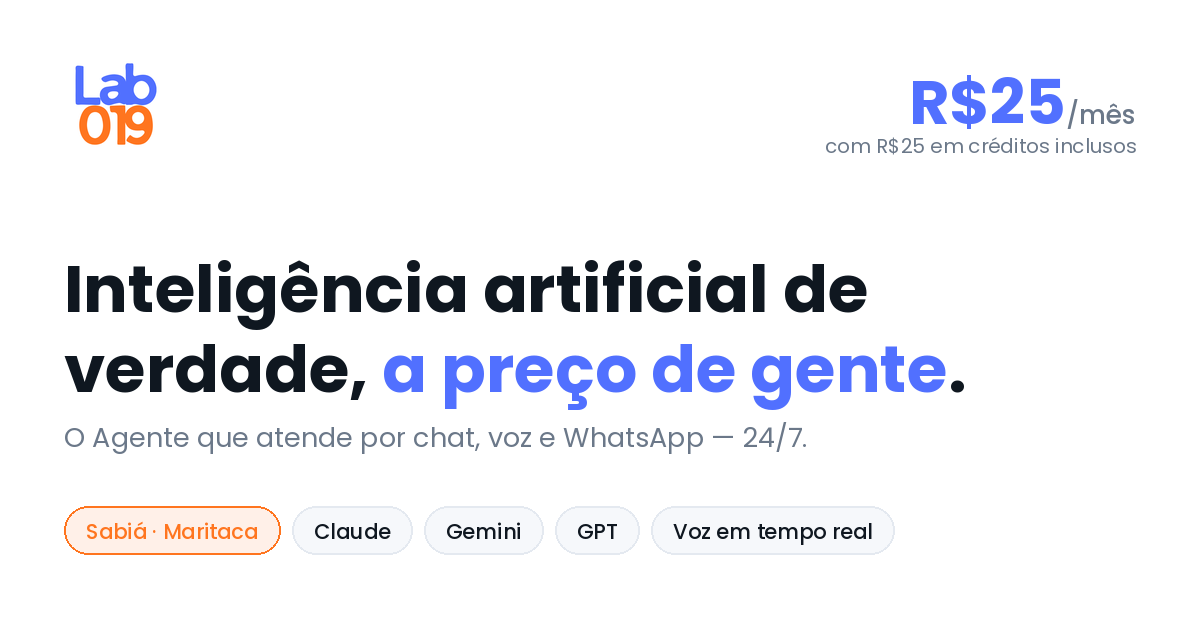
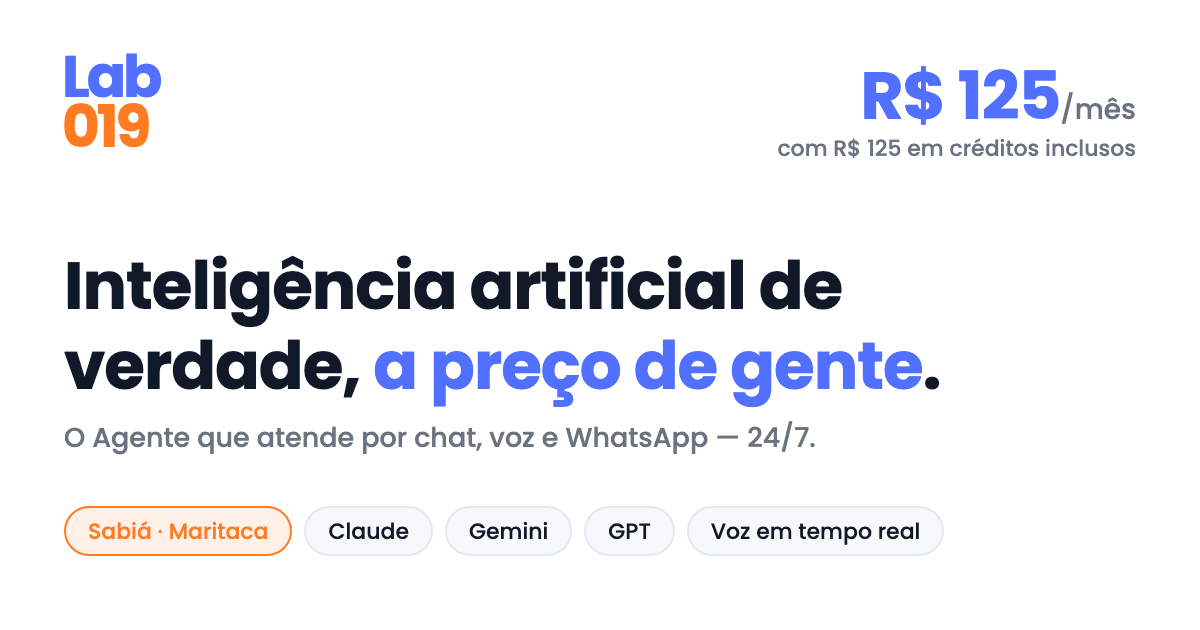
fix(site): og-image com o preço do billing, fonte no repo e ?v=3 (LIC-3526)
A prévia de link mostrava R$25/mês (PNG estático sem fonte). Agora a imagem é
redesenhada no deploy a partir de og-image/og-image.template.html com o preço e
o crédito do billing (mesmos tokens das páginas); billing ou Chrome fora do ar
falha o build. As páginas passam de ?v=2 para ?v=3 para renovar o cache do
WhatsApp e do Facebook.

diff --git a/og-image/og-image.template.html b/og-image/og-image.template.html
@@ -1,0 +1,47 @@
+<!doctype html>
+<html lang="pt-BR">
+<head>
+<meta charset="utf-8" />
+<title>og-image Lab019</title>
+<!-- Fonte da imagem de prévia de link (1200x630). Os valores vêm do billing em tempo de
+     build (os mesmos tokens de preço e franquia das páginas do site); nada de
+     preço fica escrito aqui. Render: python3 scripts/render_og_image.py site -->
+<link rel="preconnect" href="https://fonts.googleapis.com" />
+<link rel="preconnect" href="https://fonts.gstatic.com" crossorigin />
+<link href="https://fonts.googleapis.com/css2?family=Poppins:wght@500;600;700&display=swap" rel="stylesheet" />
+<style>
+  * { box-sizing: border-box; margin: 0; padding: 0; }
+  html, body { width: 1200px; height: 630px; overflow: hidden; background: #fff; }
+  body { position: relative; font-family: "Poppins", "Helvetica Neue", Arial, sans-serif; color: #111827; }
+  .mark { position: absolute; left: 62px; top: 52px; font-weight: 700; font-size: 58px; line-height: 50px; letter-spacing: -3px; }
+  .mark .lab { display: block; color: #5170ff; }
+  .mark .num { display: block; color: #ff7a21; }
+  .price { position: absolute; right: 64px; top: 58px; text-align: right; }
+  .price .amount { font-weight: 700; font-size: 66px; line-height: 76px; color: #5170ff; letter-spacing: -1px; }
+  .price .unit { font-weight: 500; font-size: 28px; color: #6b7280; }
+  .price .credits { font-weight: 500; font-size: 22px; line-height: 30px; color: #6b7280; }
+  h1 { position: absolute; left: 64px; top: 246px; font-weight: 700; font-size: 66px; line-height: 80px; letter-spacing: -1px; }
+  h1 .accent { color: #5170ff; }
+  .tagline { position: absolute; left: 64px; top: 418px; font-weight: 500; font-size: 27px; color: #6b7280; }
+  .pills { position: absolute; left: 64px; top: 506px; display: flex; gap: 12px; }
+  .pill { height: 50px; padding: 0 22px; border-radius: 25px; display: flex; align-items: center; font-weight: 500; font-size: 22px; color: #111827; background: #f6f8fb; border: 2px solid #e4e9f0; }
+  .pill.on { background: #fff0e8; border-color: #ff7a21; color: #ff7a21; }
+</style>
+</head>
+<body>
+  <div class="mark"><span class="lab">Lab</span><span class="num">019</span></div>
+  <div class="price">
+    <div><span class="amount">{{plan_price|Assinatura}}</span><span class="unit">/mês</span></div>
+    <div class="credits">com {{plan_franchise|créditos}} em créditos inclusos</div>
+  </div>
+  <h1>Inteligência artificial de<br />verdade, <span class="accent">a preço de gente</span>.</h1>
+  <div class="tagline">O Agente que atende por chat, voz e WhatsApp — 24/7.</div>
+  <div class="pills">
+    <span class="pill on">Sabiá · Maritaca</span>
+    <span class="pill">Claude</span>
+    <span class="pill">Gemini</span>
+    <span class="pill">GPT</span>
+    <span class="pill">Voz em tempo real</span>
+  </div>
+</body>
+</html>

diff --git a/site/preco/index.html b/site/preco/index.html
@@ -11,13 +11,13 @@
 <meta property="og:title" content="Preço e condições comerciais — Lab019" />
 <meta property="og:description" content="Teste por 14 dias sem cartão. No plano padrão, a mensalidade inteira vira créditos de uso. Enterprise pós-pago, com contas-filhas e uma fatura." />
 <meta property="og:url" content="https://lab019.ai/preco/" />
-<meta property="og:image" content="https://lab019.ai/assets/og-image.png?v=2" />
+<meta property="og:image" content="https://lab019.ai/assets/og-image.png?v=3" />
 <meta property="og:image:width" content="1200" />
 <meta property="og:image:height" content="630" />
 <meta name="twitter:card" content="summary_large_image" />
 <meta name="twitter:title" content="Preço e condições comerciais — Lab019" />
 <meta name="twitter:description" content="Padrão com a mensalidade inteira em créditos e Enterprise com contas-filhas e uma fatura." />
-<meta name="twitter:image" content="https://lab019.ai/assets/og-image.png?v=2" />
+<meta name="twitter:image" content="https://lab019.ai/assets/og-image.png?v=3" />
 <link rel="preconnect" href="https://fonts.googleapis.com" />
 <link rel="preconnect" href="https://fonts.gstatic.com" crossorigin />
 <link href="https://fonts.googleapis.com/css2?family=Inter:wght@400;500;600;700;800&display=swap" rel="stylesheet" />
@@ -33,7 +33,7 @@
   "@type": "Product",
   "name": "Lab019",
   "url": "https://lab019.ai/preco/",
-  "image": "https://lab019.ai/assets/og-image.png?v=2",
+  "image": "https://lab019.ai/assets/og-image.png?v=3",
   "brand": {
     "@type": "Organization",
     "name": "Lab019"

diff --git a/site/integracoes/index.html b/site/integracoes/index.html
@@ -11,13 +11,13 @@
 <meta property="og:title" content="Integrações: seu Agente age nos seus sistemas — Lab019" />
 <meta property="og:description" content="Conecte agentes da Lab019 a ferramentas e sistemas via MCP e APIs, com escopo de acesso, credenciais protegidas e aprovação para ações sensíveis." />
 <meta property="og:url" content="https://lab019.ai/integracoes/" />
-<meta property="og:image" content="https://lab019.ai/assets/og-image.png?v=2" />
+<meta property="og:image" content="https://lab019.ai/assets/og-image.png?v=3" />
 <meta property="og:image:width" content="1200" />
 <meta property="og:image:height" content="630" />
 <meta name="twitter:card" content="summary_large_image" />
 <meta name="twitter:title" content="Integrações: seu Agente age nos seus sistemas — Lab019" />
 <meta name="twitter:description" content="Conecte agentes da Lab019 a ferramentas e sistemas via MCP e APIs, com escopo de acesso, credenciais protegidas e aprovação para ações sensíveis." />
-<meta name="twitter:image" content="https://lab019.ai/assets/og-image.png?v=2" />
+<meta name="twitter:image" content="https://lab019.ai/assets/og-image.png?v=3" />
 <link rel="preconnect" href="https://fonts.googleapis.com" />
 <link rel="preconnect" href="https://fonts.gstatic.com" crossorigin />
 <link href="https://fonts.googleapis.com/css2?family=Inter:wght@400;500;600;700;800&display=swap" rel="stylesheet" />

diff --git a/site/handoff/index.html b/site/handoff/index.html
@@ -11,13 +11,13 @@
 <meta property="og:title" content="Atendimento humano: o Agente passa para você — Lab019" />
 <meta property="og:description" content="A IA atende o volume e passa os casos delicados para uma pessoa, em voz e texto, sem perder o histórico. Você assume na hora e devolve para o Agente." />
 <meta property="og:url" content="https://lab019.ai/handoff/" />
-<meta property="og:image" content="https://lab019.ai/assets/og-image.png?v=2" />
+<meta property="og:image" content="https://lab019.ai/assets/og-image.png?v=3" />
 <meta property="og:image:width" content="1200" />
 <meta property="og:image:height" content="630" />
 <meta name="twitter:card" content="summary_large_image" />
 <meta name="twitter:title" content="Atendimento humano: o Agente passa para você — Lab019" />
 <meta name="twitter:description" content="A IA atende o volume e passa os casos delicados para uma pessoa, em voz e texto, sem perder o histórico. Você assume na hora e devolve para o Agente." />
-<meta name="twitter:image" content="https://lab019.ai/assets/og-image.png?v=2" />
+<meta name="twitter:image" content="https://lab019.ai/assets/og-image.png?v=3" />
 <link rel="preconnect" href="https://fonts.googleapis.com" />
 <link rel="preconnect" href="https://fonts.gstatic.com" crossorigin />
 <link href="https://fonts.googleapis.com/css2?family=Inter:wght@400;500;600;700;800&display=swap" rel="stylesheet" />

diff --git a/site/voz/index.html b/site/voz/index.html
@@ -11,13 +11,13 @@
 <meta property="og:title" content="Seu Agente de IA atende por voz e por telefone — Lab019" />
 <meta property="og:description" content="O Agente atende por voz em português do Brasil, no seu site ou por um número de telefone de verdade, 24/7. Transcreve tudo e passa para um humano." />
 <meta property="og:url" content="https://lab019.ai/voz/" />
-<meta property="og:image" content="https://lab019.ai/assets/og-image.png?v=2" />
+<meta property="og:image" content="https://lab019.ai/assets/og-image.png?v=3" />
 <meta property="og:image:width" content="1200" />
 <meta property="og:image:height" content="630" />
 <meta name="twitter:card" content="summary_large_image" />
 <meta name="twitter:title" content="Seu Agente de IA atende por voz e por telefone — Lab019" />
 <meta name="twitter:description" content="O Agente atende por voz em português do Brasil, no seu site ou por um número de telefone de verdade, 24/7. Transcreve tudo e passa para um humano." />
-<meta name="twitter:image" content="https://lab019.ai/assets/og-image.png?v=2" />
+<meta name="twitter:image" content="https://lab019.ai/assets/og-image.png?v=3" />
 <link rel="preconnect" href="https://fonts.googleapis.com" />
 <link rel="preconnect" href="https://fonts.gstatic.com" crossorigin />
 <link href="https://fonts.googleapis.com/css2?family=Inter:wght@400;500;600;700;800&display=swap" rel="stylesheet" />

diff --git a/site/especialistas/index.html b/site/especialistas/index.html
@@ -11,13 +11,13 @@
 <meta property="og:title" content="Equipe de agentes especialistas para o seu negócio — Lab019" />
 <meta property="og:description" content="Um agente principal que delega para sub-agentes especialistas e conhece o seu negócio via skills. Monte tudo conversando, sem programar." />
 <meta property="og:url" content="https://lab019.ai/especialistas/" />
-<meta property="og:image" content="https://lab019.ai/assets/og-image.png?v=2" />
+<meta property="og:image" content="https://lab019.ai/assets/og-image.png?v=3" />
 <meta property="og:image:width" content="1200" />
 <meta property="og:image:height" content="630" />
 <meta name="twitter:card" content="summary_large_image" />
 <meta name="twitter:title" content="Equipe de agentes especialistas para o seu negócio — Lab019" />
 <meta name="twitter:description" content="Um agente principal que delega para sub-agentes especialistas e conhece o seu negócio via skills. Monte tudo conversando, sem programar." />
-<meta name="twitter:image" content="https://lab019.ai/assets/og-image.png?v=2" />
+<meta name="twitter:image" content="https://lab019.ai/assets/og-image.png?v=3" />
 <link rel="preconnect" href="https://fonts.googleapis.com" />
 <link rel="preconnect" href="https://fonts.gstatic.com" crossorigin />
 <link href="https://fonts.googleapis.com/css2?family=Inter:wght@400;500;600;700;800&display=swap" rel="stylesheet" />

diff --git a/site/automacoes/index.html b/site/automacoes/index.html
@@ -11,13 +11,13 @@
 <meta property="og:title" content="Automações para a operação — Lab019" />
 <meta property="og:description" content="Automatize cobranças, relatórios e tarefas recorrentes com agentes de IA. WhatsApp como canal principal, telefone como opção e acompanhamento por contato." />
 <meta property="og:url" content="https://lab019.ai/automacoes/" />
-<meta property="og:image" content="https://lab019.ai/assets/og-image.png?v=2" />
+<meta property="og:image" content="https://lab019.ai/assets/og-image.png?v=3" />
 <meta property="og:image:width" content="1200" />
 <meta property="og:image:height" content="630" />
 <meta name="twitter:card" content="summary_large_image" />
 <meta name="twitter:title" content="Automações para a operação — Lab019" />
 <meta name="twitter:description" content="Automatize cobranças, relatórios e tarefas recorrentes com agentes de IA. WhatsApp como canal principal, telefone como opção e acompanhamento por contato." />
-<meta name="twitter:image" content="https://lab019.ai/assets/og-image.png?v=2" />
+<meta name="twitter:image" content="https://lab019.ai/assets/og-image.png?v=3" />
 <link rel="preconnect" href="https://fonts.googleapis.com" />
 <link rel="preconnect" href="https://fonts.gstatic.com" crossorigin />
 <link href="https://fonts.googleapis.com/css2?family=Inter:wght@400;500;600;700;800&display=swap" rel="stylesheet" />

diff --git a/site/atendimento-whatsapp/index.html b/site/atendimento-whatsapp/index.html
@@ -12,13 +12,13 @@
 <meta property="og:title" content="Atendimento e pré-venda no WhatsApp com IA — Lab019" />
 <meta property="og:description" content="O Agente responde dúvidas, registra pedidos e faz pré-venda no WhatsApp a qualquer hora e chama uma pessoa quando o caso pede. Pela API oficial da Meta." />
 <meta property="og:url" content="https://lab019.ai/atendimento-whatsapp/" />
-<meta property="og:image" content="https://lab019.ai/assets/og-image.png?v=2" />
+<meta property="og:image" content="https://lab019.ai/assets/og-image.png?v=3" />
 <meta property="og:image:width" content="1200" />
 <meta property="og:image:height" content="630" />
 <meta name="twitter:card" content="summary_large_image" />
 <meta name="twitter:title" content="Atendimento e pré-venda no WhatsApp com IA — Lab019" />
 <meta name="twitter:description" content="O Agente responde dúvidas, registra pedidos e faz pré-venda no WhatsApp a qualquer hora e chama uma pessoa quando o caso pede. Pela API oficial da Meta." />
-<meta name="twitter:image" content="https://lab019.ai/assets/og-image.png?v=2" />
+<meta name="twitter:image" content="https://lab019.ai/assets/og-image.png?v=3" />
 
 <link rel="preconnect" href="https://fonts.googleapis.com" />
 <link rel="preconnect" href="https://fonts.gstatic.com" crossorigin />

diff --git a/site/reativacao-de-clientes/index.html b/site/reativacao-de-clientes/index.html
@@ -12,13 +12,13 @@
 <meta property="og:title" content="Reativação de clientes pelo WhatsApp com IA — Lab019" />
 <meta property="og:description" content="Volte a falar com quem sumiu: o Agente envia mensagens pelo WhatsApp, acompanha só quem não respondeu e chama uma pessoa quando há interesse." />
 <meta property="og:url" content="https://lab019.ai/reativacao-de-clientes/" />
-<meta property="og:image" content="https://lab019.ai/assets/og-image.png?v=2" />
+<meta property="og:image" content="https://lab019.ai/assets/og-image.png?v=3" />
 <meta property="og:image:width" content="1200" />
 <meta property="og:image:height" content="630" />
 <meta name="twitter:card" content="summary_large_image" />
 <meta name="twitter:title" content="Reativação de clientes pelo WhatsApp com IA — Lab019" />
 <meta name="twitter:description" content="Volte a falar com quem sumiu: o Agente envia mensagens pelo WhatsApp, acompanha só quem não respondeu e chama uma pessoa quando há interesse." />
-<meta name="twitter:image" content="https://lab019.ai/assets/og-image.png?v=2" />
+<meta name="twitter:image" content="https://lab019.ai/assets/og-image.png?v=3" />
 
 <link rel="preconnect" href="https://fonts.googleapis.com" />
 <link rel="preconnect" href="https://fonts.gstatic.com" crossorigin />

diff --git a/site/seguranca/index.html b/site/seguranca/index.html
@@ -11,11 +11,11 @@
 <meta property="og:title" content="Segurança e governança — Lab019" />
 <meta property="og:description" content="Conheça os controles de acesso, aprovação e registro da Lab019 e o estágio atual das certificações. Requisitos regulatórios são avaliados por implantação." />
 <meta property="og:url" content="https://lab019.ai/seguranca/" />
-<meta property="og:image" content="https://lab019.ai/assets/og-image.png?v=2" />
+<meta property="og:image" content="https://lab019.ai/assets/og-image.png?v=3" />
 <meta name="twitter:card" content="summary_large_image" />
 <meta name="twitter:title" content="Segurança e governança — Lab019" />
 <meta name="twitter:description" content="Conheça os controles de acesso, aprovação e registro da Lab019 e o estágio atual das certificações. Requisitos regulatórios são avaliados por implantação." />
-<meta name="twitter:image" content="https://lab019.ai/assets/og-image.png?v=2" />
+<meta name="twitter:image" content="https://lab019.ai/assets/og-image.png?v=3" />
 <link rel="preconnect" href="https://fonts.googleapis.com" />
 <link rel="preconnect" href="https://fonts.gstatic.com" crossorigin />
 <link href="https://fonts.googleapis.com/css2?family=Inter:wght@400;500;600;700;800&display=swap" rel="stylesheet" />

diff --git a/site/index.html b/site/index.html
@@ -12,13 +12,13 @@
 <meta property="og:title" content="Agentes de IA para operações que exigem controle — Lab019" />
 <meta property="og:description" content="Automatize atendimento e rotinas com agentes de IA, escopo de ferramentas, aprovação humana e histórico. WhatsApp, telefone e sistemas conectados." />
 <meta property="og:url" content="https://lab019.ai/" />
-<meta property="og:image" content="https://lab019.ai/assets/og-image.png?v=2" />
+<meta property="og:image" content="https://lab019.ai/assets/og-image.png?v=3" />
 <meta property="og:image:width" content="1200" />
 <meta property="og:image:height" content="630" />
 <meta name="twitter:card" content="summary_large_image" />
 <meta name="twitter:title" content="Agentes de IA para operações que exigem controle — Lab019" />
 <meta name="twitter:description" content="Automatize atendimento e rotinas com agentes de IA, escopo de ferramentas, aprovação humana e histórico. WhatsApp, telefone e sistemas conectados." />
-<meta name="twitter:image" content="https://lab019.ai/assets/og-image.png?v=2" />
+<meta name="twitter:image" content="https://lab019.ai/assets/og-image.png?v=3" />
 
 <link rel="preconnect" href="https://fonts.googleapis.com" />
 <link rel="preconnect" href="https://fonts.gstatic.com" crossorigin />

diff --git a/site/cobranca-whatsapp/index.html b/site/cobranca-whatsapp/index.html
@@ -12,13 +12,13 @@
 <meta property="og:title" content="Cobrança automática pelo WhatsApp com IA — Lab019" />
 <meta property="og:description" content="O Agente avisa cada cliente no dia certo pelo WhatsApp, acompanha quem não respondeu e chama uma pessoa quando precisa. Você vê cada contato." />
 <meta property="og:url" content="https://lab019.ai/cobranca-whatsapp/" />
-<meta property="og:image" content="https://lab019.ai/assets/og-image.png?v=2" />
+<meta property="og:image" content="https://lab019.ai/assets/og-image.png?v=3" />
 <meta property="og:image:width" content="1200" />
 <meta property="og:image:height" content="630" />
 <meta name="twitter:card" content="summary_large_image" />
 <meta name="twitter:title" content="Cobrança automática pelo WhatsApp com IA — Lab019" />
 <meta name="twitter:description" content="O Agente avisa cada cliente no dia certo pelo WhatsApp, acompanha quem não respondeu e chama uma pessoa quando precisa. Você vê cada contato." />
-<meta name="twitter:image" content="https://lab019.ai/assets/og-image.png?v=2" />
+<meta name="twitter:image" content="https://lab019.ai/assets/og-image.png?v=3" />
 
 <link rel="preconnect" href="https://fonts.googleapis.com" />
 <link rel="preconnect" href="https://fonts.gstatic.com" crossorigin />
